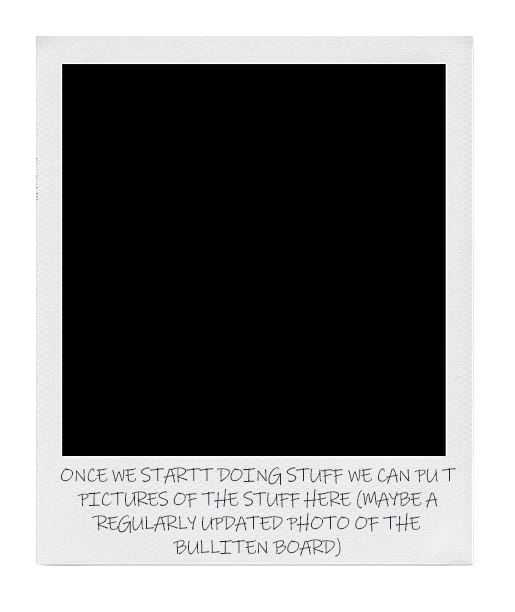
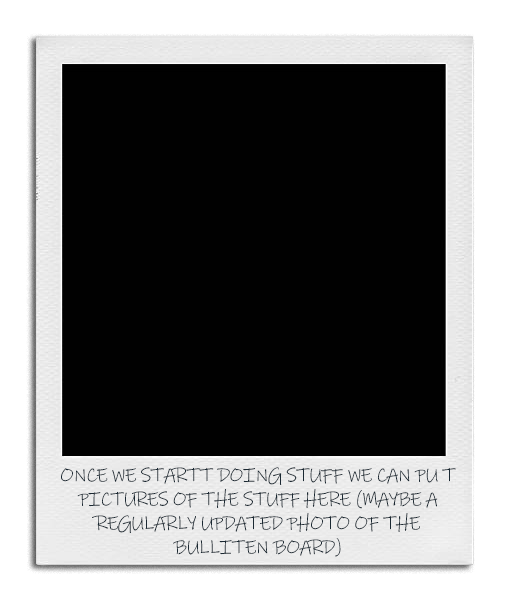
fr this time

Changed region(s): [[0.0311, 0.0621, 0.932, 0.9314]]

diff --git a/css/layout.css b/css/layout.css
@@ -112,7 +112,7 @@
 .overlay-note {
     top: 36.8%;
     left: 73.5%;
-    width: 25%;
+    width: 30%;
 }
 
 /* Make sure images scale correctly */
